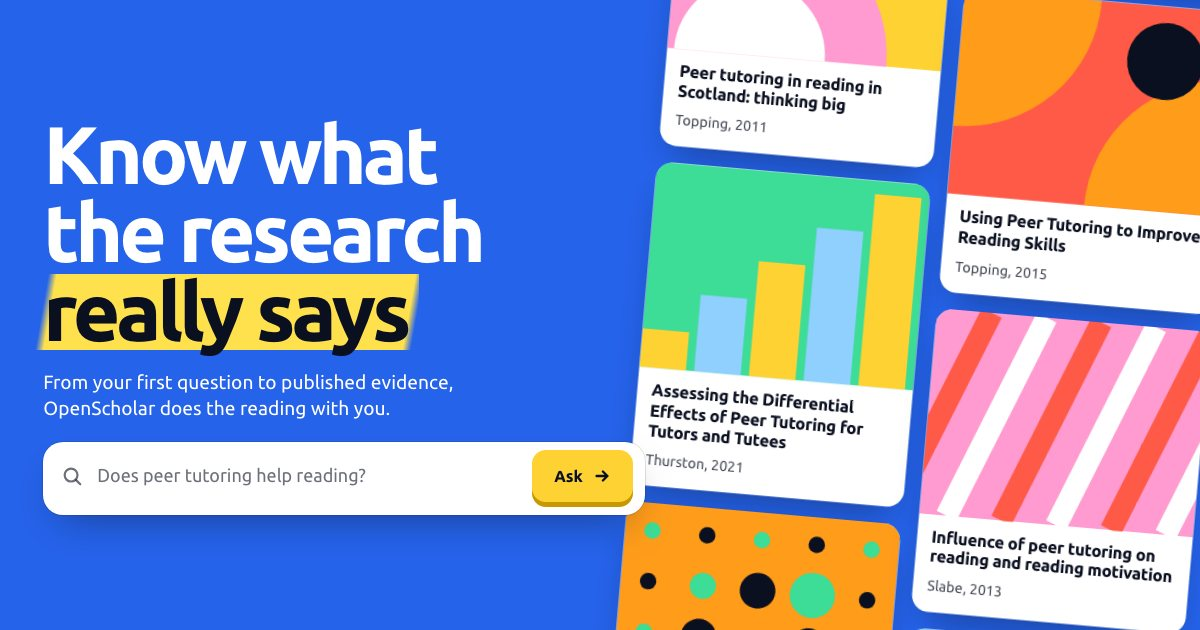
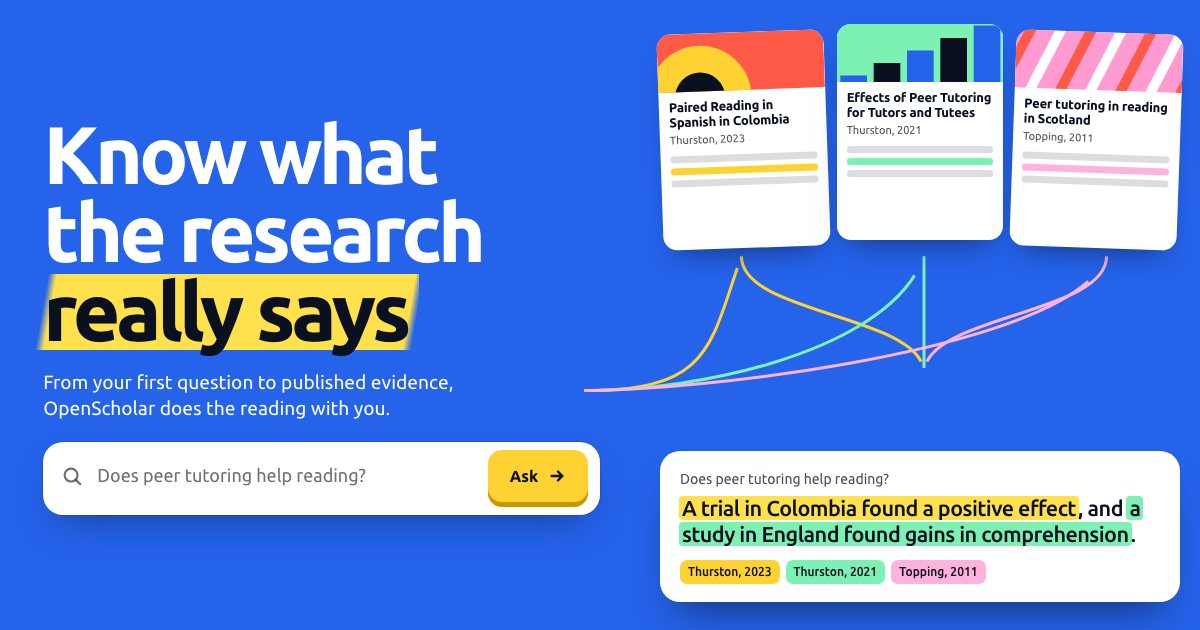
feat(marketing): a hero that shows the AI at work, big illustrations, a sift machine and distinct inner pages

diff --git a/marketing/src/styles/global.css b/marketing/src/styles/global.css
@@ -6,7 +6,7 @@
 :root {
   color-scheme: light;
   --paper: #f6f3ea; --ink: #0b1020; --white: #fff;
-  --cobalt: #2563eb; --cobalt-edge: #123a9e; --sun: #ffd233; --sun-edge: #c79800; --mint: #3ddc97; --mint-edge: #129a60; --coral: #ff5a47; --coral-edge: #b92a1a; --sky: #8fd0ff; --tang: #ff9c1a; --pink: #ff9bd0; --leaf: #0b6b4f;
+  --cobalt: #2563eb; --cobalt-edge: #123a9e; --sun: #ffd233; --sun-edge: #c79800; --mint: #2fd08c; --mint-edge: #129a60; --coral: #ff4f3d; --coral-edge: #b92a1a; --sky: #8fd0ff; --tang: #ff9c1a; --pink: #ff8cc8; --leaf: #0b6b4f; --deep: #153fb0;
   --mark-1: #ffe14d; --mark-2: #8fd0ff; --mark-3: #7df0b4; --mark-4: #ffb3dc;
   --t2: rgb(11 16 32 / .74); --t3: rgb(11 16 32 / .6); --line: rgb(11 16 32 / .12);
   --ease: cubic-bezier(.22, 1, .36, 1);
@@ -37,13 +37,14 @@ p { text-wrap: pretty; }
 .row { display: grid; gap: var(--gap); }
 
 /* A keycap: it has a real edge, and pressing it pushes it down. */
-.key { --face: var(--ink); --edge: #000; --text: #fff; display: inline-flex; align-items: center; justify-content: center; gap: 10px; height: 52px; padding-inline: 22px; border-radius: 14px; background: var(--face); color: var(--text); font-weight: 700; font-size: 16px; letter-spacing: -.01em; white-space: nowrap; box-shadow: 0 5px 0 var(--edge); transform: translateY(0); transition: transform .12s var(--ease), box-shadow .12s var(--ease); cursor: pointer; }
+.key { --face: var(--ink); --edge: #4a5a91; --text: #fff; display: inline-flex; align-items: center; justify-content: center; gap: 10px; height: 52px; padding-inline: 22px; border-radius: 14px; background: var(--face); color: var(--text); font-weight: 700; font-size: 16px; letter-spacing: -.01em; white-space: nowrap; box-shadow: 0 5px 0 var(--edge); transform: translateY(0); transition: transform .12s var(--ease), box-shadow .12s var(--ease); cursor: pointer; }
 .key:hover { transform: translateY(-2px); box-shadow: 0 7px 0 var(--edge); }
 .key:active { transform: translateY(5px); box-shadow: 0 0 0 var(--edge); transition-duration: .04s; }
 .key svg { flex: none; transition: transform .2s var(--ease); } .key:hover svg { transform: translateX(3px); }
 .key.sun { --face: var(--sun); --edge: var(--sun-edge); --text: var(--ink); }
 .key.white { --face: #fff; --edge: #b9bdcc; --text: var(--ink); }
 .key.cobalt { --face: var(--cobalt); --edge: var(--cobalt-edge); }
+.key.coral { --face: #d42c1a; --edge: #8f1d10; }
 .key.small { height: 40px; padding-inline: 14px; font-size: 14px; border-radius: 11px; box-shadow: 0 4px 0 var(--edge); } .key.small:hover { box-shadow: 0 5px 0 var(--edge); } .key.small:active { transform: translateY(4px); box-shadow: 0 0 0 var(--edge); }
 
 /* A highlighter stroke: the same marks the product puts on search terms. It wipes on when it's first seen. */
@@ -52,9 +53,6 @@ p { text-wrap: pretty; }
 
 /* Text link: a marker stroke rises under it. */
 .pen { font-weight: 500; background: linear-gradient(var(--pen, var(--mark-1)), var(--pen, var(--mark-1))) no-repeat 0 100% / 100% .28em; transition: background-size .2s var(--ease); } .pen:hover { background-size: 100% 100%; }
-
-/* A die-cut sticker. */
-.sticker { filter: drop-shadow(2.5px 0 0 #fff) drop-shadow(-2.5px 0 0 #fff) drop-shadow(0 2.5px 0 #fff) drop-shadow(0 -2.5px 0 #fff) drop-shadow(0 6px 8px rgb(11 16 32 / .22)); }
 
 @media (prefers-reduced-motion: reduce) { *, *::before, *::after { animation: none !important; transition: none !important; scroll-behavior: auto !important; } @view-transition { navigation: none; } }
 @media (max-width: 700px) { :root { --gap: 8px; --r: 24px; } }
